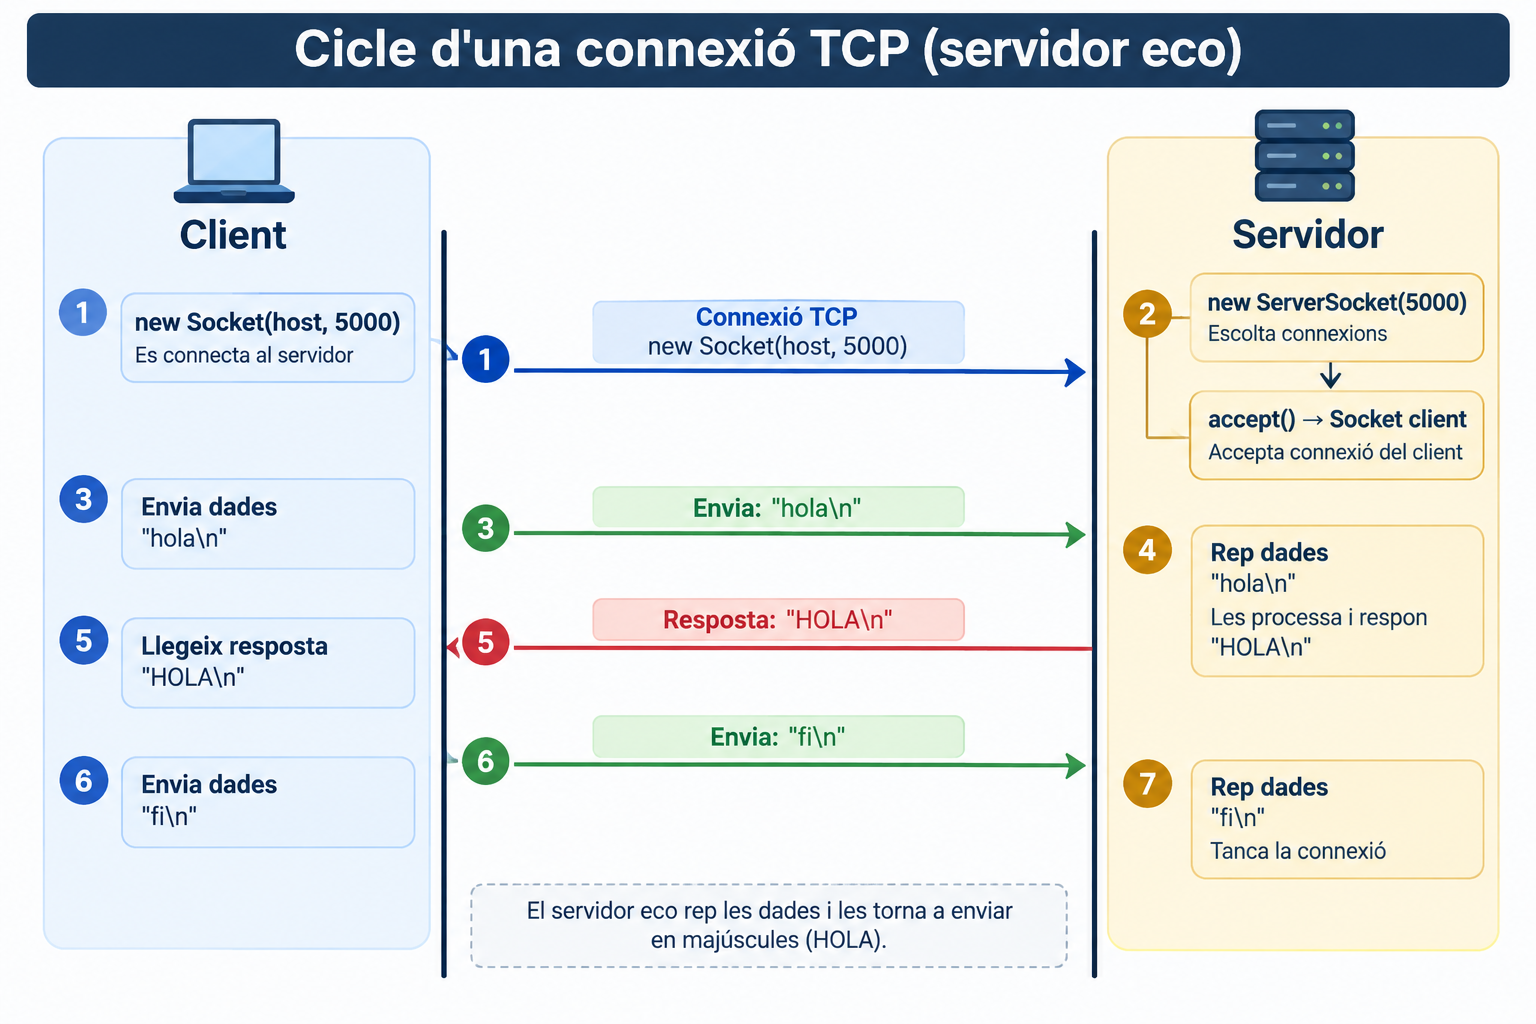
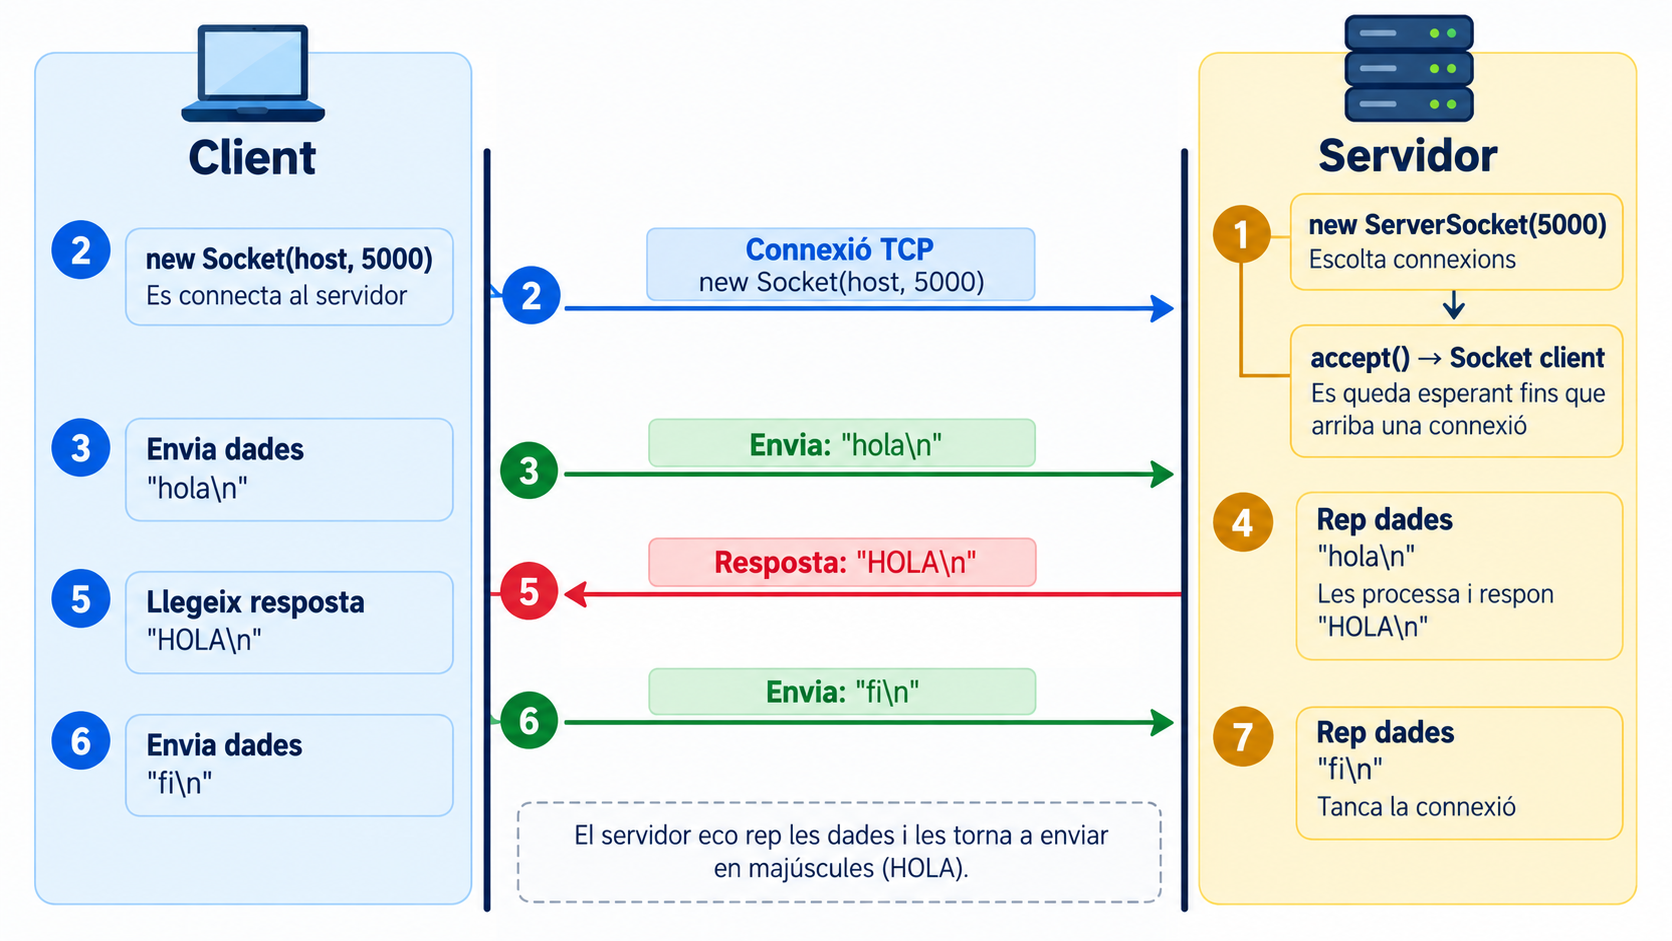
fix(dam_0490): correct TCP echo diagram sequence and refresh image cache

diff --git a/ioc/dam_0490/unitat-2/bloc-2/index.html b/ioc/dam_0490/unitat-2/bloc-2/index.html
@@ -424,7 +424,7 @@
   <div class="component-header info-header" role="heading" aria-level="4"><i class="bi bi-image" aria-hidden="true"></i> Figura</div>
   <div class="component-content">
     <figure class="figure">
-      <img src="/ioc/dam_0490/assets/img/unitat-2/05_echo_tcp.png" alt="Cicle d'un eco TCP: el servidor escolta, el client connecta, accept retorna un socket, tots dos intercanvien línies i finalment tanquen la connexió." class="figure-img"/>
+      <img src="/ioc/dam_0490/assets/img/unitat-2/05_echo_tcp.png?v=20261022" alt="Cicle d'un eco TCP: el servidor escolta, el client connecta, accept retorna un socket, tots dos intercanvien línies i finalment tanquen la connexió." class="figure-img"/>
       
       <figcaption class="figure-caption">ServerSocket accepta connexions. La conversa real es fa a través del Socket retornat per accept().</figcaption>
       
